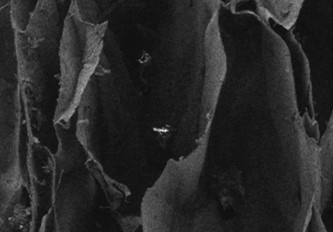
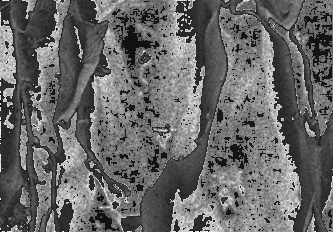
refactor: change parameter values

diff --git a/histogram-statistics.py b/histogram-statistics.py
@@ -35,7 +35,7 @@ def main():
     img = read_file(filename)
     # new_img = histogram_statistics(img, E=5.5, k0=0.4, k1=0.04,  k2=0.95)
     # new_img = histogram_statistics(img, E=5.5, k0=0.95, k1=0.040,  k2=0.95)
-    new_img = histogram_statistics(img, E=3, k0=0.2, k1=0.01,  k2=0.8)
+    new_img = histogram_statistics(img, E=5.5, k0=0.95, k1=0.040,  k2=0.95)
     # show_images([img, new_img])
     save_file(r"results\\histogram-statistics\\" + filename, new_img)
 
